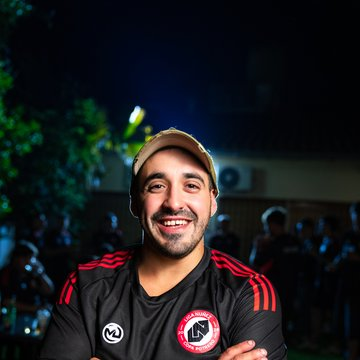
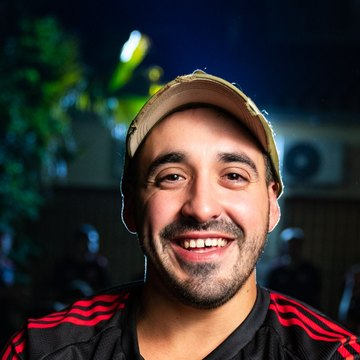
Copa Potrero: fotos del plantel centradas en la cara

diff --git a/copa-potrero/index.html b/copa-potrero/index.html
@@ -115,7 +115,7 @@ tr.us td:first-child{color:var(--red)}
 .player .nm{font-weight:700;font-size:1.05rem;line-height:1.05}
 .player > span:last-child{line-height:1.05}
 .player .ps{font-size:.74rem;letter-spacing:.12em;text-transform:uppercase;color:var(--muted);line-height:1.1}
-.player .av{width:72px;height:72px;border-radius:50%;object-fit:cover;object-position:50% 15%;display:block}
+.player .av{width:72px;height:72px;border-radius:50%;object-fit:cover;object-position:50% 50%;display:block}
 .player.dt{background:var(--ink);color:var(--paper)}
 .player.dt .num{color:var(--gold)}
 .player.dt .ps{color:#b9b7b0}
